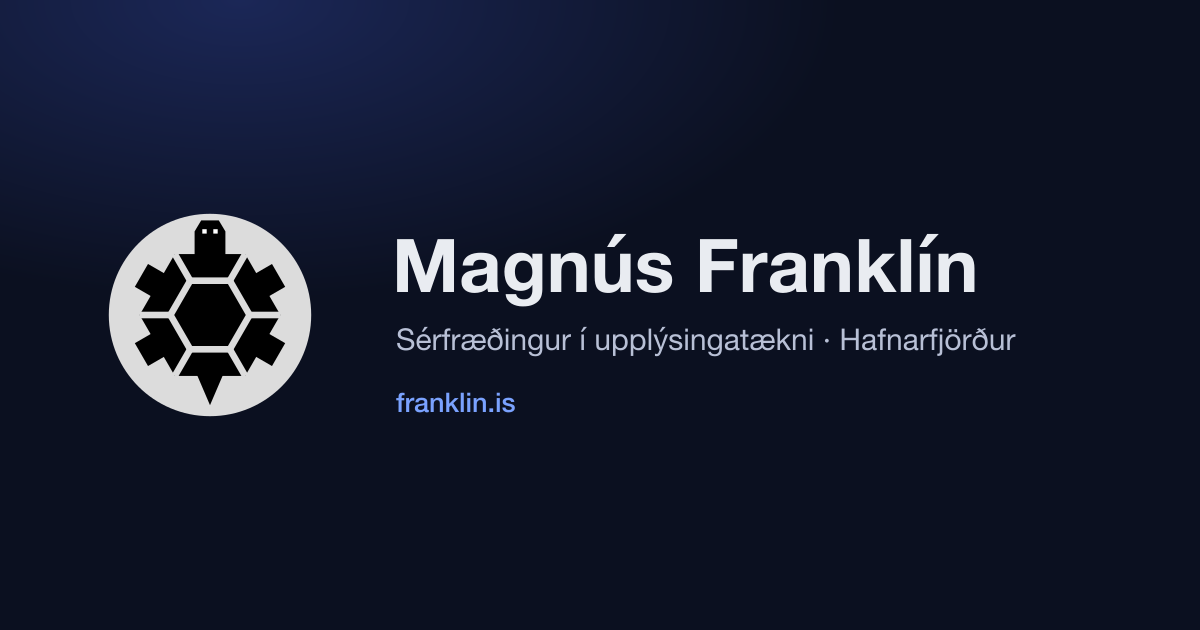
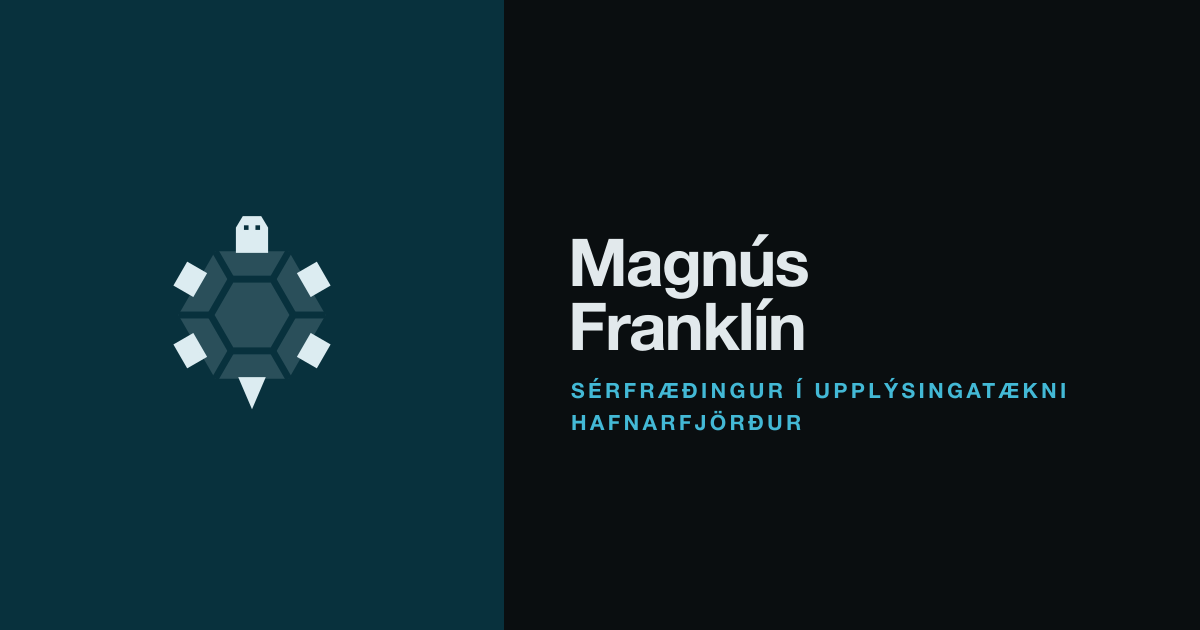
Redesign as a split layout in dark teal
Replaces the centred card with a two-field layout: a teal panel carrying
the turtle, and the content on a near-black field beside it.

The turtle is inlined as SVG rather than referenced as an image so CSS can
colour it — the eyes become cut-outs taking the panel colour, which the
hardcoded fill="white" could not do on a light turtle.

On phones the panel colour extends behind the heading so the turtle and
the name read as one header block. Stacking them as separate bands left a
screen of dead colour to scroll past before any content appeared.

og.svg/og.png rebuilt to mirror the split, and theme-color follows the
panel. Copy, counter, fallback and meta tags are unchanged.

diff --git a/styles.css b/styles.css
@@ -1,97 +1,131 @@
 :root{
-  --bg:#0b1020;
-  --card:#121a33;
-  --text:#e9ecf1;
-  --muted:#b8c0d6;
-  --accent:#7aa2ff;
-  --accent2:#9bb4ff;
+  --panel:#08313d;   /* teal field behind the turtle */
+  --turtle:#dcecf1;
+  --bg:#0a0e10;
+  --accent:#43b9d6;
+  --ink:#e2e9ec;
+  --muted:#79868c;
+  --line:#1d262a;
 }
 
-*{box-sizing:border-box;}
+*{box-sizing:border-box}
+
 body{
   margin:0;
-  font-family:system-ui,-apple-system,Segoe UI,Roboto,sans-serif;
-  background: radial-gradient(1200px 600px at 20% 0%, #17214a 0%, var(--bg) 60%);
-  color:var(--text);
   min-height:100vh;
+  background:var(--bg);
+  color:var(--ink);
+  overflow-x:hidden;
+  font-family:ui-sans-serif,system-ui,-apple-system,"Segoe UI",Roboto,sans-serif;
+  line-height:1.6;
+  -webkit-font-smoothing:antialiased;
+  display:grid;
+  grid-template-columns:42% 58%;
+}
+
+/* ---------- left: the turtle field ---------- */
+.panel{
+  background:var(--panel);
   display:grid;
   place-items:center;
-  padding:24px;
+  padding:30px;
+  position:relative;
+  overflow:hidden;
+}
+.panel svg{
+  width:min(62%,330px);
+  height:auto;
+  display:block;
+  color:var(--turtle);
+  animation:bob 6s ease-in-out infinite;
+}
+@keyframes bob{
+  0%,100%{transform:translateY(-11px) rotate(-2.2deg)}
+  50%{transform:translateY(11px) rotate(2.2deg)}
+}
+@media(prefers-reduced-motion:reduce){ .panel svg{animation:none} }
+
+.mark{
+  position:absolute;
+  bottom:22px;
+  left:26px;
+  color:rgba(255,255,255,.28);
+  font-size:12px;
+  text-transform:uppercase;
+  letter-spacing:.24em;
+  font-weight:700;
 }
 
-.card{
-  width:min(720px,100%);
-  background:linear-gradient(180deg,var(--card),#0f1730);
-  border:1px solid rgba(255,255,255,0.08);
-  border-radius:16px;
-  padding:28px;
-  box-shadow:0 20px 80px rgba(0,0,0,0.35);
-}
-
-.header h1{
-  margin:0 0 6px;
-  font-size:34px;
-  letter-spacing:.2px;
-}
-.tagline{
-  margin:0;
-  color:var(--muted);
-  font-size:16px;
-}
-
-.about{
-  margin-top:18px;
-  padding:16px;
-  border-radius:12px;
-  background:rgba(255,255,255,0.04);
-  border:1px solid rgba(255,255,255,0.06);
-  color:var(--text);
-  line-height:1.55;
-}
-
-.about .ps{
-  margin:14px 0 0;
-  color:var(--muted);
-  font-size:14px;
-  opacity:.85;
-}
-
-.links{
-  margin-top:18px;
+/* ---------- right: the content ---------- */
+.content{
   display:flex;
-  flex-wrap:wrap;
-  gap:10px;
+  flex-direction:column;
+  justify-content:center;
+  padding:clamp(30px,5vw,76px);
+}
+.head,.body{min-width:0}
+
+h1{
+  margin:0 0 6px;
+  font-size:clamp(34px,4.6vw,62px);
+  font-weight:800;
+  letter-spacing:-.035em;
+  line-height:.98;
+}
+.role{
+  margin:0 0 26px;
+  font-size:13px;
+  font-weight:700;
+  text-transform:uppercase;
+  letter-spacing:.17em;
+  color:var(--accent);
 }
 
-.btn{
-  display:inline-block;
-  padding:10px 12px;
-  border-radius:12px;
-  border:1px solid rgba(255,255,255,0.10);
-  background:rgba(255,255,255,0.03);
-  color:var(--accent2);
+.body p{margin:0 0 15px;font-size:16.5px;max-width:54ch}
+.body .ps{font-size:13.5px;color:var(--muted)}
+
+.links{display:flex;flex-wrap:wrap;gap:9px;margin:26px 0 0;align-items:flex-start}
+.links a{
+  padding:10px 17px;
+  border:1px solid var(--line);
+  border-radius:4px;
+  color:var(--ink);
   text-decoration:none;
-  transition:transform .12s ease, border-color .12s ease, color .12s ease;
+  font-size:14px;
+  font-weight:600;
+  transition:border-color .15s,color .15s;
 }
-.btn:hover,
-.btn:focus{
-  transform:translateY(-1px);
-  border-color:rgba(122,162,255,0.6);
-  color:#c7d3ff;
-  outline:none;
-}
+.links a:hover,.links a:focus{border-color:var(--accent);color:var(--accent);outline:none}
 
 .footer{
-  margin-top:22px;
+  margin-top:30px;
+  padding-top:15px;
+  border-top:1px solid var(--line);
   display:flex;
   justify-content:space-between;
   gap:12px;
   flex-wrap:wrap;
   color:var(--muted);
-  font-size:14px;
+  font-size:12.5px;
 }
 
-/* If you also want normal links somewhere else */
-a { color: var(--accent2); }
-a:visited { color: #8fa6e6; }
-a:hover, a:focus { color: #c7d3ff; }
+a{color:var(--accent)}
+
+/* ---------- phones: the panel colour carries the name too, so the
+     turtle and the heading read as one block instead of a band you
+     scroll past before anything happens ---------- */
+@media(max-width:820px){
+  body{display:block}
+  .panel{min-height:0;padding:34px 24px 14px}
+  .panel svg{width:132px;animation-duration:7s}
+  .mark{display:none}
+  .content{display:block;padding:0}
+  .head{background:var(--panel);padding:0 24px 30px;margin:0}
+  h1{font-size:38px;line-height:1}
+  .role{margin:10px 0 0;font-size:11.5px;letter-spacing:.13em;line-height:1.5}
+  .role .sep{display:none}
+  .role .loc{display:block}
+  .body{padding:30px 24px 38px}
+  .body p{font-size:16px}
+  .footer{flex-direction:column;gap:4px}
+}

diff --git a/index.html b/index.html
@@ -7,7 +7,7 @@
   <meta name="description" content="Magnús Franklín — Sérfræðingur í upplýsingatækni í Hafnarfirði. Netþjónar, netkerfi, sjálfvirkni og sterkar skoðanir á sundlaugum." />
   <link rel="canonical" href="https://franklin.is/" />
   <link rel="icon" href="/favicon.svg" type="image/svg+xml" />
-  <meta name="theme-color" content="#0b1020" />
+  <meta name="theme-color" content="#08313d" />
 
   <!-- Opna Graf / samfélagsmiðlar -->
   <meta property="og:type" content="website" />
@@ -32,13 +32,56 @@
 </head>
 
 <body>
-  <main class="card">
-    <header class="header">
-      <h1>Magnús Franklín</h1>
-      <p class="tagline">Sérfræðingur í upplýsingatækni · Hafnarfjörður</p>
+  <div class="panel">
+        <svg xmlns="http://www.w3.org/2000/svg" viewBox="0 0 100 100">
+        <defs>
+        <!-- This mask cuts the perfect lines into the solid black shell -->
+        <mask id="shell-cuts">
+        <rect x="0" y="0" width="100" height="100" fill="var(--panel)" />
+        <g stroke="black" stroke-width="3" fill="none">
+        <!-- Inner hexagon outline -->
+        <polygon points="59,34.4 68,50 59,65.6 41,65.6 32,50 41,34.4" />
+        <!-- Radiating lines to the corners -->
+        <line x1="59" y1="34.4" x2="66" y2="22.3" />
+        <line x1="68" y1="50" x2="82" y2="50" />
+        <line x1="59" y1="65.6" x2="66" y2="77.7" />
+        <line x1="41" y1="65.6" x2="34" y2="77.7" />
+        <line x1="32" y1="50" x2="18" y2="50" />
+        <line x1="41" y1="34.4" x2="34" y2="22.3" />
+        </g>
+        </mask>
+        </defs>
+        <g fill="currentColor">
+        <!-- 4 Flippers (Rotated perfectly to match the angled shell edges) -->
+        <!-- Top Right -->
+        <rect x="76" y="44" width="10" height="12" transform="rotate(-30 50 50)" />
+        <!-- Top Left -->
+        <rect x="76" y="44" width="10" height="12" transform="rotate(-150 50 50)" />
+        <!-- Bottom Right -->
+        <rect x="76" y="44" width="10" height="12" transform="rotate(30 50 50)" />
+        <!-- Bottom Left -->
+        <rect x="76" y="44" width="10" height="12" transform="rotate(150 50 50)" />
+        <!-- Tail -->
+        <polygon points="44,77 56,77 50,91" />
+        <!-- Blocky Head -->
+        <path d="M 43,23 L 43,12 L 46,7 L 54,7 L 57,12 L 57,23 Z" />
+        <!-- The Shell -->
+        <polygon points="66,22.3 82,50 66,77.7 34,77.7 18,50 34,22.3" mask="url(#shell-cuts)" />
+        </g>
+        <!-- White Eyes -->
+        <rect x="46.5" y="11" width="2" height="2" fill="var(--panel)" />
+        <rect x="51.5" y="11" width="2" height="2" fill="var(--panel)" />
+        </svg>
+    <div class="mark">franklin.is</div>
+  </div>
+
+  <main class="content">
+    <header class="head">
+      <h1>Magnús<br />Franklín</h1>
+      <p class="role">Sérfræðingur í upplýsingatækni<span class="sep"> · </span><span class="loc">Hafnarfjörður</span></p>
     </header>
 
-    <section class="about">
+    <div class="body">
       <p>
         Halló. Þú hefur ratað á vefsíðu sem enginn bað um. Ég held netþjónum,
         netkerfum og öryggisafritum gangandi og sjálfvirknivæði allt sem ég
@@ -50,22 +93,20 @@
         landsins og er alltaf til í að deila þeim.
         <span id="sundtext">Ég veit ekki hve oft ég hef farið í sund á árinu.</span>
       </p>
-      <p class="ps">
-        Já, gervigreind skrifaði þennan texta. Skoðanirnar á sundlaugunum eru þó mínar.
-      </p>
-    </section>
+      <p class="ps">Já, gervigreind skrifaði þennan texta. Skoðanirnar á sundlaugunum eru þó mínar.</p>
 
-    <section class="links">
-      <a class="btn" href="mailto:magnus@franklin.is">Netfang</a>
-      <a class="btn" href="https://www.linkedin.com/in/magnus-franklin" target="_blank" rel="noopener">LinkedIn</a>
-      <a class="btn" href="https://github.com/maggifrank" target="_blank" rel="noopener">GitHub</a>
-      <!--<a class="btn" href="https://cv.franklin.is" target="_blank" rel="noopener">Ferilskrá</a>-->
-    </section>
+      <nav class="links">
+        <a href="mailto:magnus@franklin.is">Netfang</a>
+        <a href="https://www.linkedin.com/in/magnus-franklin" target="_blank" rel="noopener">LinkedIn</a>
+        <a href="https://github.com/maggifrank" target="_blank" rel="noopener">GitHub</a>
+        <!--<a href="https://cv.franklin.is" target="_blank" rel="noopener">Ferilskrá</a>-->
+      </nav>
 
-    <footer class="footer">
-      <span>Hafnarfjörður · Ísland</span>
-      <span>© <span id="year"></span> Magnús Franklín</span>
-    </footer>
+      <footer class="footer">
+        <span>Hafnarfjörður · Ísland</span>
+        <span>© <span id="year"></span> Magnús Franklín</span>
+      </footer>
+    </div>
   </main>
 
   <script>
